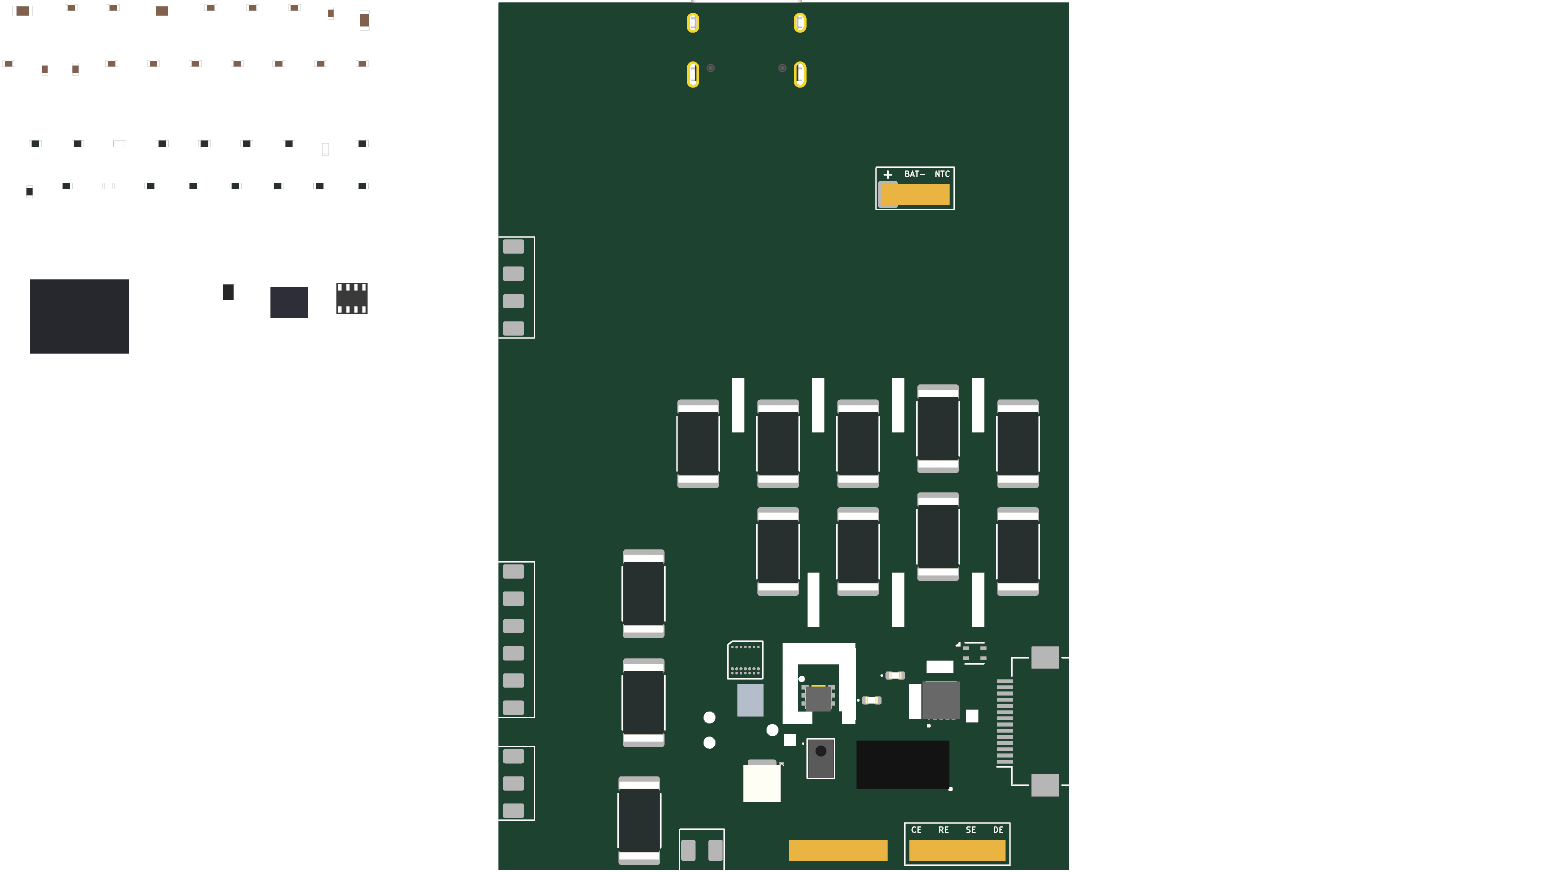
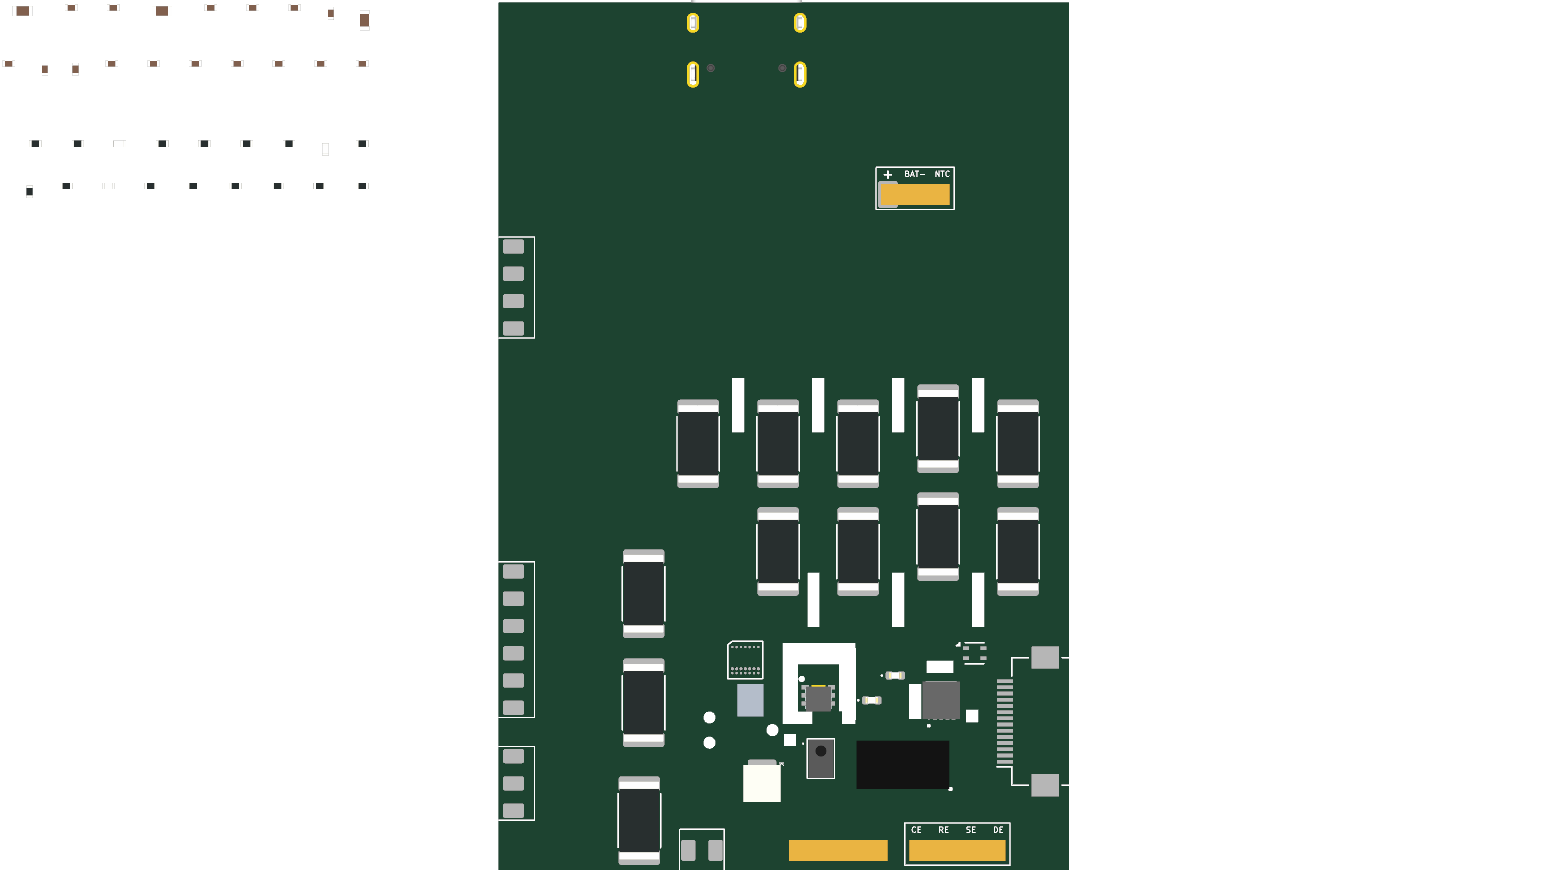
Unlock TP1-28 test pads, park off-board for Quilter (59 locked / 233 parked)
Generated with [Devin](https://devin.ai)

Changed region(s): [[0.0, 0.3096, 0.0938, 0.4335], [0.125, 0.3096, 0.25, 0.3716]]

diff --git a/hardware/pcb/prep_quilter.py b/hardware/pcb/prep_quilter.py
@@ -58,7 +58,7 @@ for fp in board.GetFootprints():
     r = fp.GetReference()
     on_bottom = fp.GetLayer() == pcbnew.B_Cu
     pre = re.match(r"[A-Z]+", r).group(0)
-    lock = (r in SENSORS or is_hv(r) or pre in ("J", "TP") or r == "U1")
+    lock = (r in SENSORS or is_hv(r) or pre == "J" or r == "U1")
     (locked if lock else loose).append(fp)
 
 fp_boxes = {id(fp): fp.GetBoundingBox() for fp in loose}
